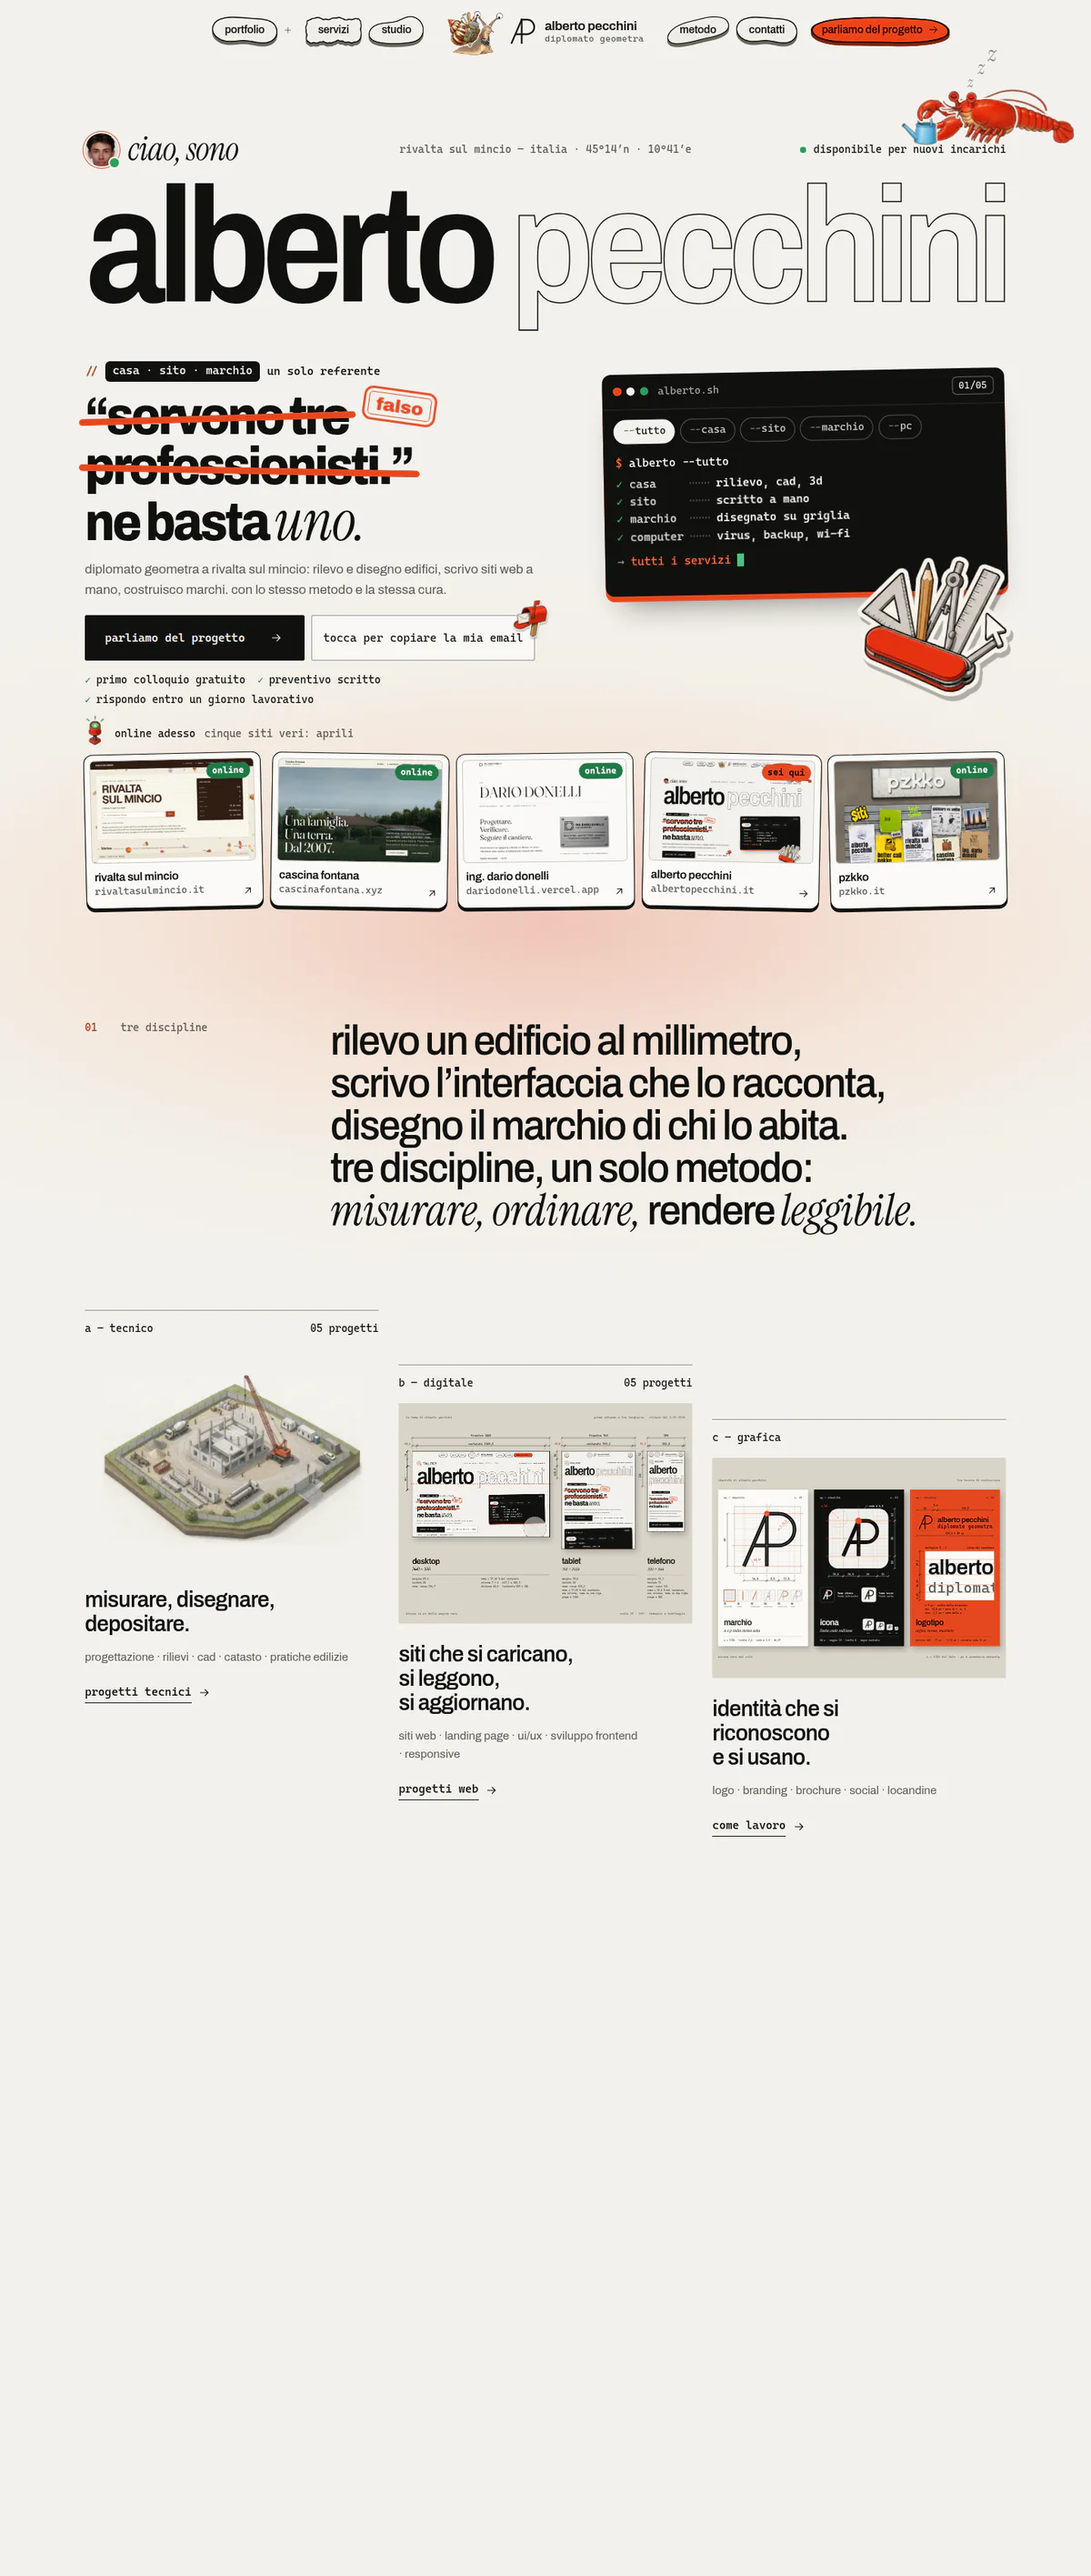
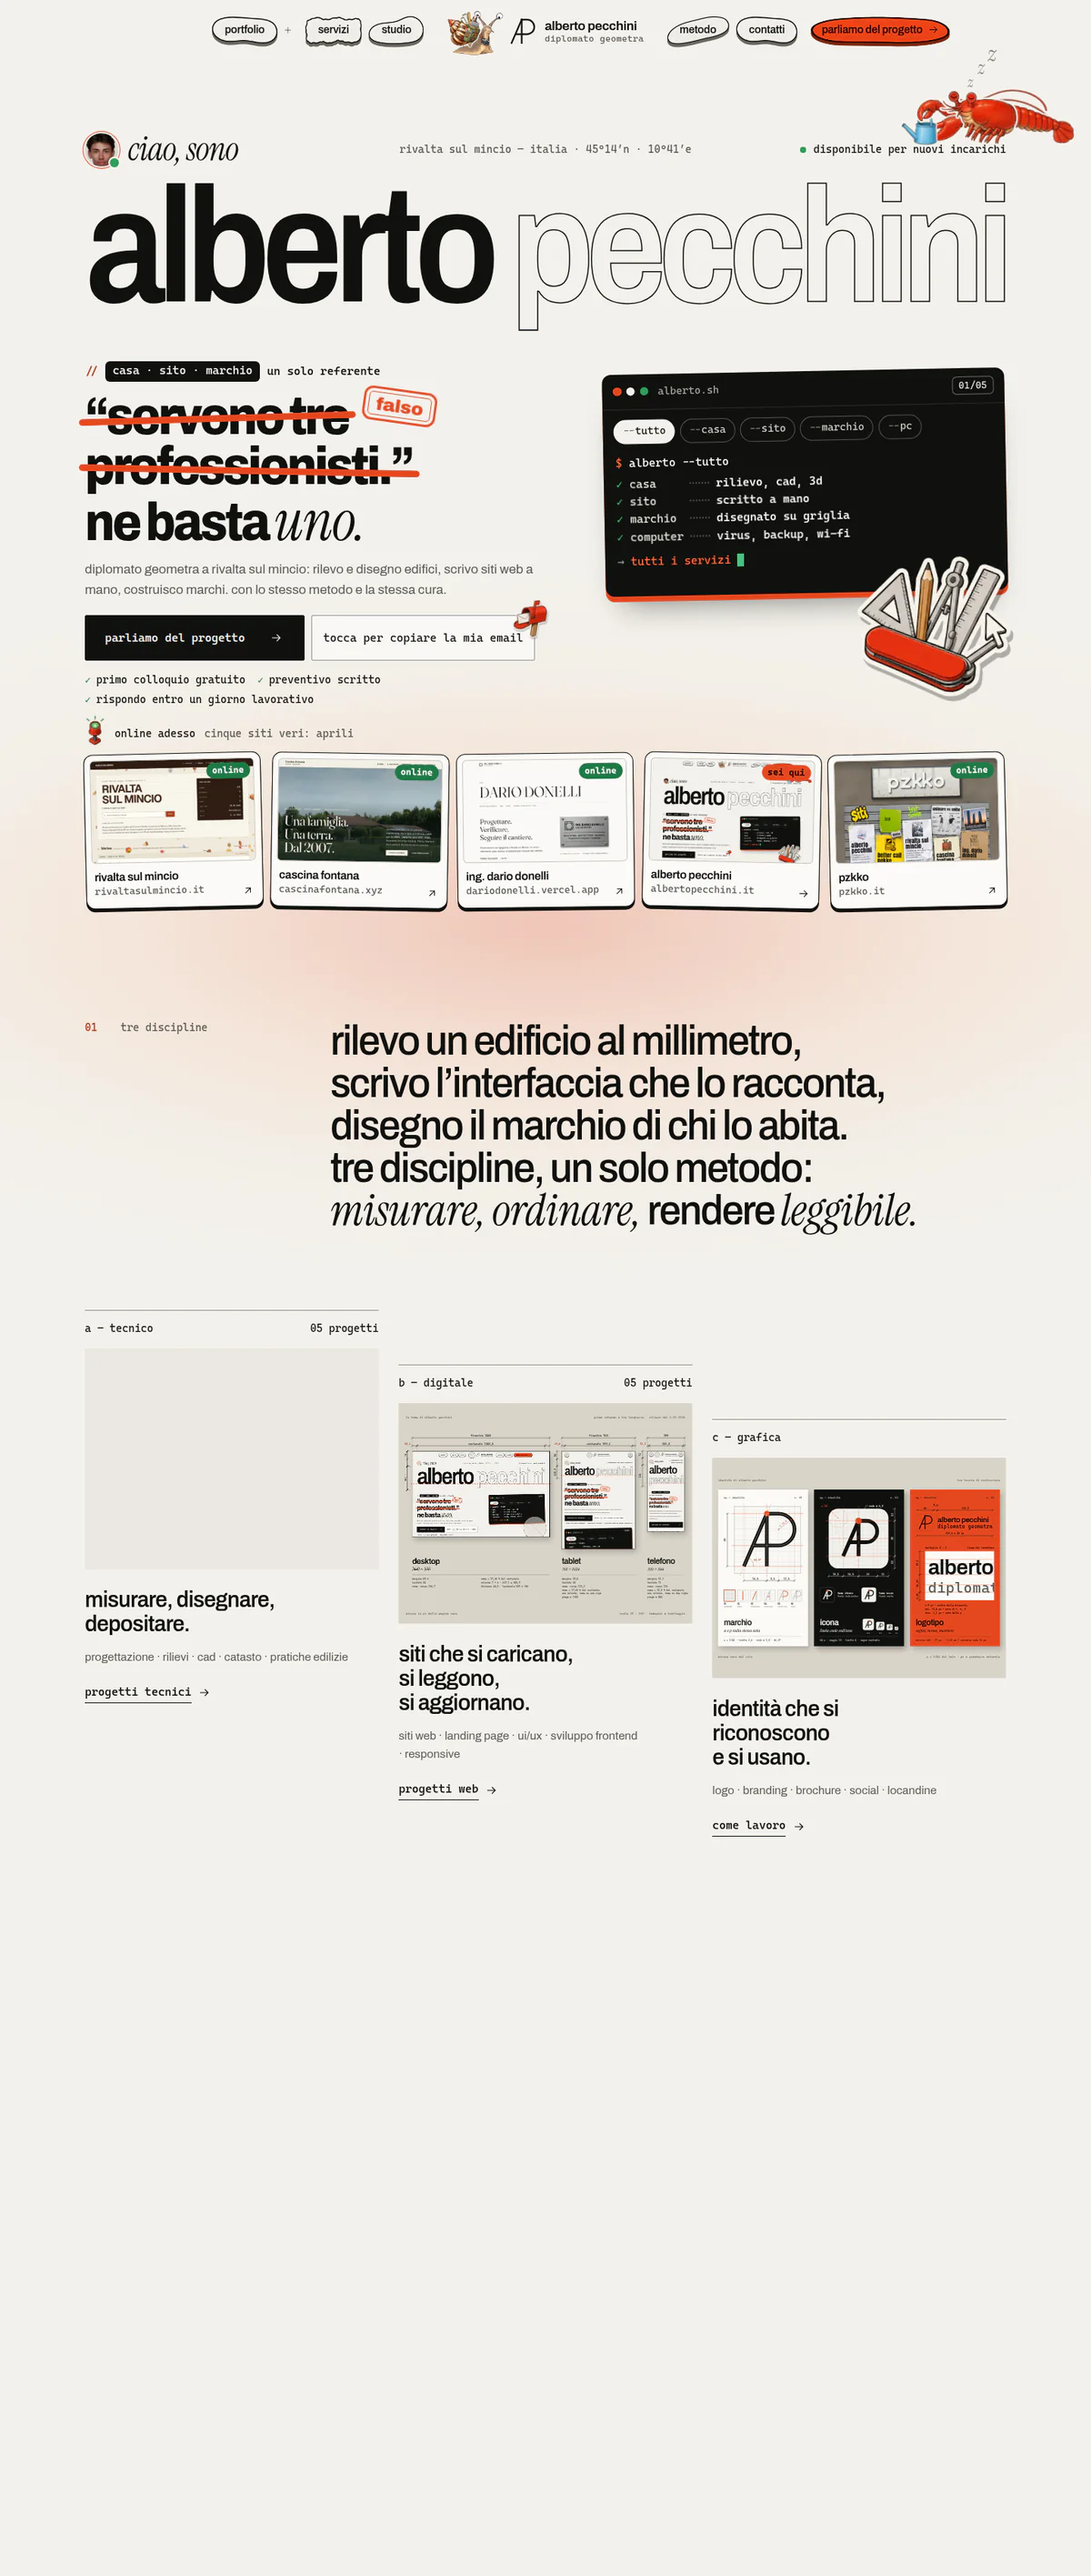
Catture aggiornate: Alberto Pecchini
Rifatte da .github/workflows/catture.yml: il sito online era cambiato.

Changed region(s): [[0.0925, 0.5281, 0.3392, 0.6212]]

diff --git a/albertopecchini.it/src/data/catture.js b/albertopecchini.it/src/data/catture.js
@@ -4,15 +4,15 @@
 // la copia vecchia dopo un aggiornamento.
 
 export const catture = {
-  'ap-desktop-tall.webp': { w: 1200, h: 2833, v: 'bbfa4bdd' },
+  'ap-desktop-tall.webp': { w: 1200, h: 2833, v: 'fe5b201b' },
   'ap-desktop.webp': { w: 1200, h: 750, v: 'e6b83923' },
-  'ap-iphone-01.webp': { w: 804, h: 4084, v: 'd68f8545' },
+  'ap-iphone-01.webp': { w: 804, h: 4084, v: '0e30b6ce' },
   'ap-iphone-02.webp': { w: 804, h: 4084, v: '7353bb5c' },
   'ap-iphone-03.webp': { w: 804, h: 4084, v: '66da0693' },
   'ap-iphone-04.webp': { w: 804, h: 4084, v: 'b642344e' },
   'ap-iphone-05.webp': { w: 804, h: 4084, v: 'e0e4fa9f' },
   'ap-iphone-06.webp': { w: 804, h: 4080, v: 'b13c3a8b' },
-  'ap-mobile-tall.webp': { w: 600, h: 4000, v: 'feb06ea2' },
+  'ap-mobile-tall.webp': { w: 600, h: 4000, v: '5fe65228' },
   'ap-mobile.webp': { w: 600, h: 1298, v: '6c18accf' },
   'ap-tablet.webp': { w: 720, h: 1036, v: 'c6829e03' },
   'cascina-contatti-mobile.webp': { w: 600, h: 1298, v: '990e9109' },
@@ -29,6 +29,8 @@ export const catture = {
   'dd-mobile.webp': { w: 600, h: 1298, v: '93168203' },
   'dd-tablet.webp': { w: 720, h: 1036, v: '24abfc77' },
   'pzk-404-mobile.webp': { w: 600, h: 1298, v: '83f16411' },
+  'pzk-bologna-m.webp': { w: 540, h: 720, v: 'ae6d59d0' },
+  'pzk-bologna.webp': { w: 1080, h: 1440, v: '4cc7cd1d' },
   'pzk-desktop-tall.webp': { w: 1200, h: 2253, v: 'da66d840' },
   'pzk-desktop.webp': { w: 1200, h: 750, v: '47c50c37' },
   'pzk-mobile-tall.webp': { w: 600, h: 4000, v: 'cfad4638' },
